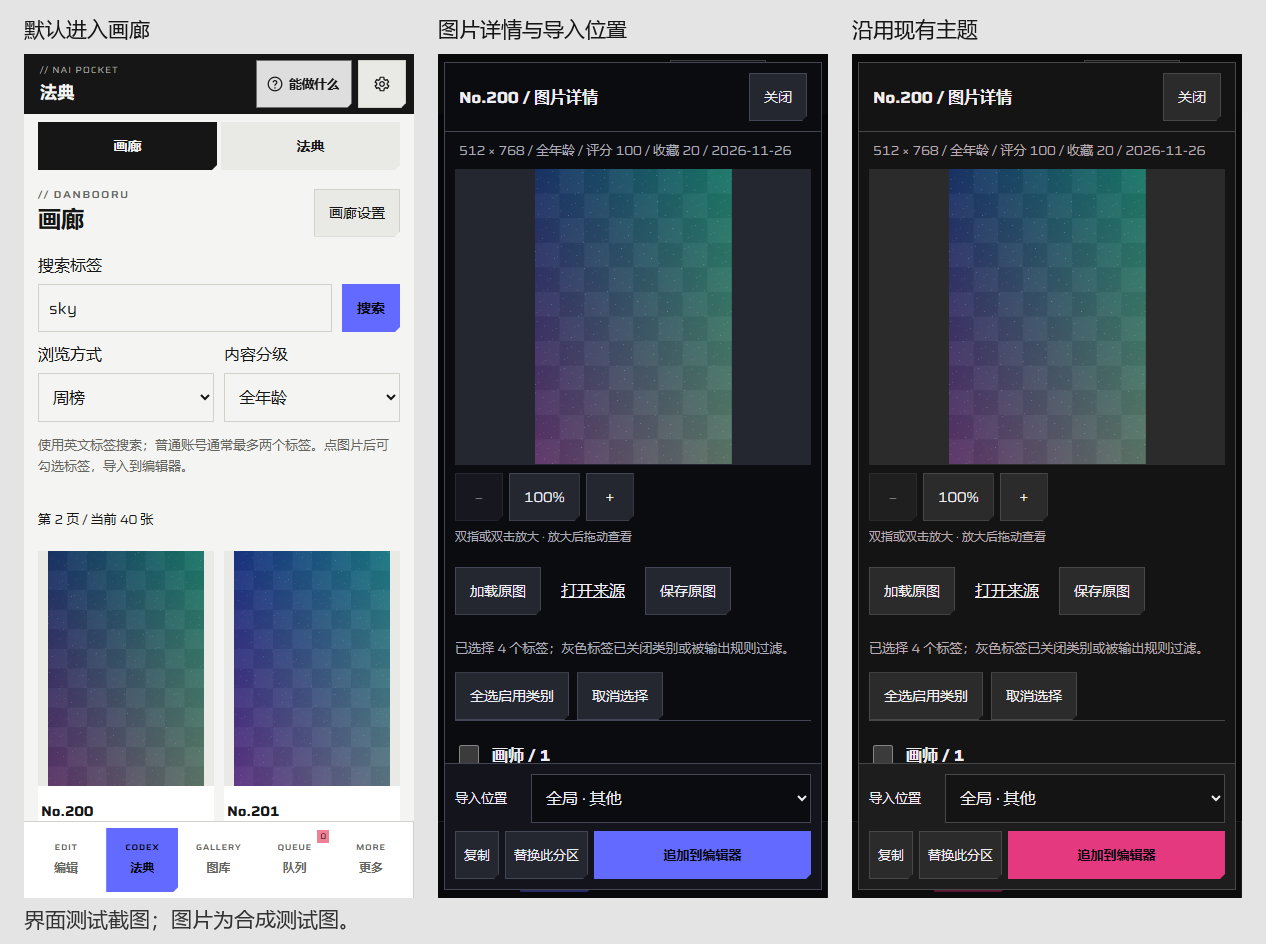
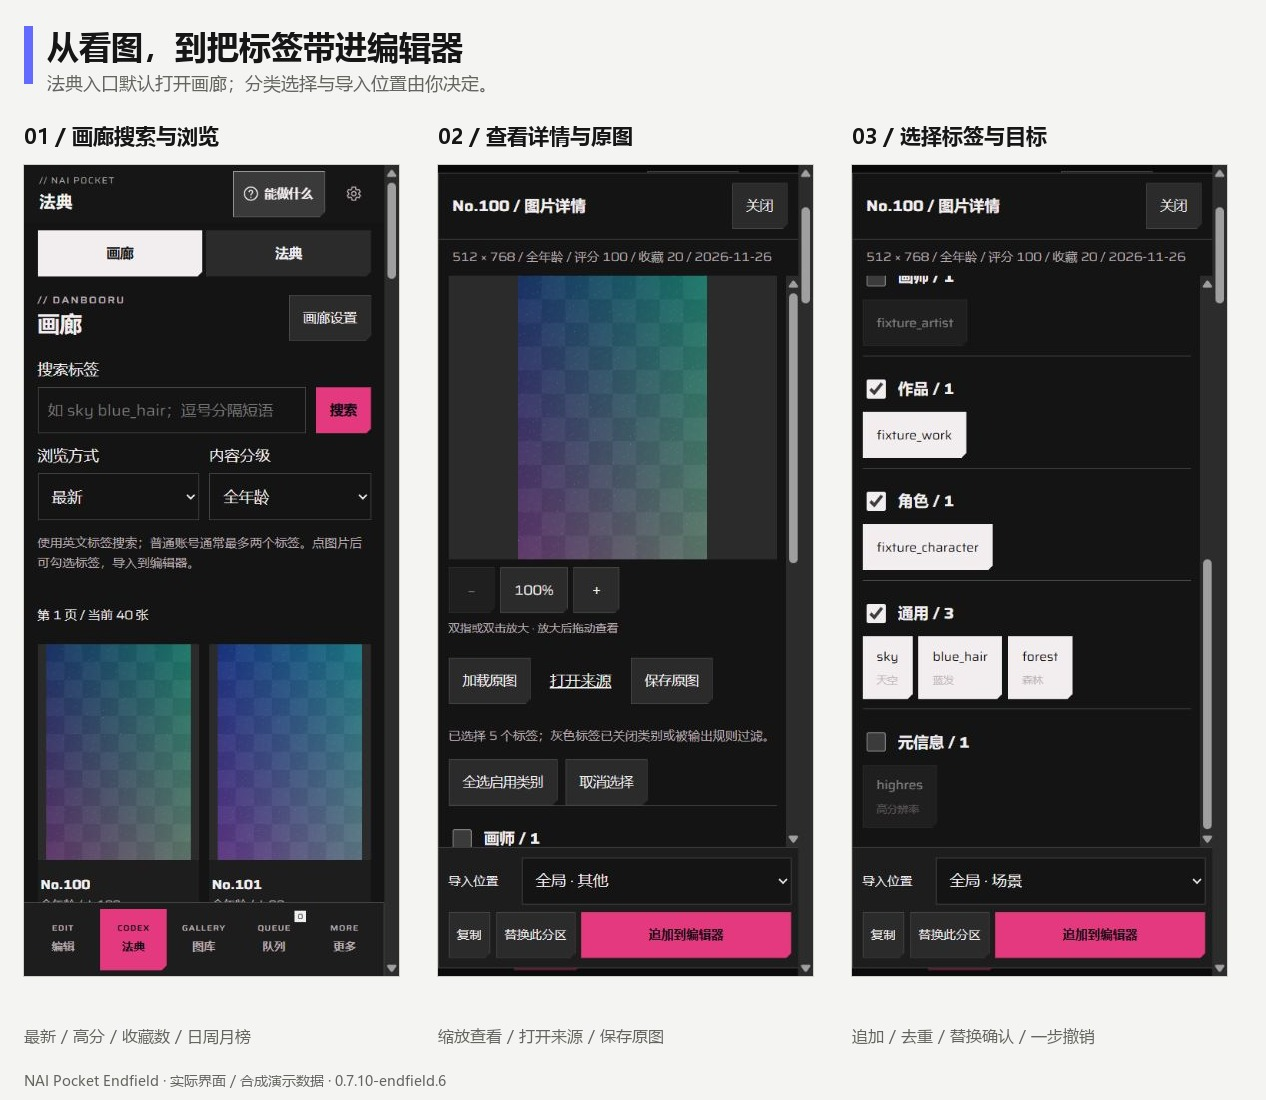
docs: add fourteen screenshots and four feature tours
Personal endfield-release only. Keep the upstream pull request branch unchanged.

diff --git a/docs/endfield/FEATURES.md b/docs/endfield/FEATURES.md
@@ -1,0 +1,57 @@
+# NAI Pocket Endfield 功能图解
+
+以下是 **0.7.10-endfield.6 实际界面**在隔离演示环境中的截图，不是概念设计。
+示例图片、账号和失败任务是合成测试数据；没有使用个人图库、真实 Token 或第三方画作。
+点开图片可以查看大图。截图演示界面和操作入口，不代表所有手机上的系统授权、网络和后台行为已经验收。
+
+## 1. 四套配色与类别色
+
+![四套配色](themes-overview.jpg)
+
+设置 → 显示：明黄浅色、蓝紫深色、蓝紫与珊瑚、玫红深色，并支持跟随系统。
+场景、镜头、画风、其他的类别色独立保留，便于辨认分区。
+
+## 2. 画廊搜索、看图与指定位置导入
+
+![画廊浏览和导入](gallery-guide.jpg)
+
+进入底栏「法典」，默认打开左侧「画廊」，右侧可切回法典。
+支持搜索、最新／高分／收藏数、日周月榜、分级及分页。
+详情里可按类别或逐个选标签，再选择场景、镜头、画风、其他、负面提示词或已有角色。
+「追加到编辑器」会对目标分区去重；「替换此分区」会先确认，两种导入均可一步撤销。
+演示图中的 `fixture_*` 是测试名称；实际联网浏览显示站点返回的真实标签。
+
+## 3. 图库、缩放与回收站
+
+![图库操作](library-guide.jpg)
+
+- 图库按创建时间从新到旧、从左到右排列。批量下载针对当前已载入的图片。
+- 图片详情可双指、双击和按钮放大；放大后拖动查看。静态截图不能展示完整手势过程。
+- 回收站可直接预览与查看原图。查看不会恢复，也不会延长原有 24 小时保留时间。
+
+## 4. 标签多选、失败队列和下载偏好
+
+![整理操作与下载设置](workflow-guide.jpg)
+
+- 编辑器「多选」：批量移动或删除，并可撤销。
+- 队列「删除记录」「清理失败记录」：清理失败任务，保护进行中或仍关联图库／回收站图片的任务。
+- 设置 → 图片下载：元数据可选每次询问、保留或移除；保存位置可选相册、指定文件夹或每次询问。
+
+## 5. 个人项目入口（仅本仓库发布版）
+
+<img src="settings-project.jpg" alt="设置中的个人项目主页和下载入口" width="390">
+
+设置 → ENDFIELD 提供「项目主页」「下载与更新」，下方「关于」继续保留原作者的项目与署名。
+**个人入口只在 `endfield-release` 分支；上游 PR #3 的代码不包含它。**
+
+## 单张原图
+
+| 功能 | 原图 |
+| --- | --- |
+| 配色 | [明黄](editor-light.jpg) · [蓝紫深色](editor-dark.jpg) · [蓝紫珊瑚](editor-blue-coral.jpg) · [玫红](editor-rose-night.jpg) |
+| 画廊 | [浏览](booru-browse.jpg) · [详情](booru-detail.jpg) · [标签导入](booru-import.jpg) |
+| 图片 | [批量下载](gallery-batch.jpg) · [放大](image-zoom.jpg) · [回收站](trash-preview.jpg) |
+| 整理 | [标签多选](tags-batch.jpg) · [失败队列](queue-cleanup.jpg) · [下载偏好](download-preferences.jpg) |
+| 项目 | [个人仓库入口](settings-project.jpg) |
+
+[返回项目首页](../../README.md) · [画廊详细用法](../../DANBOORU.md)
